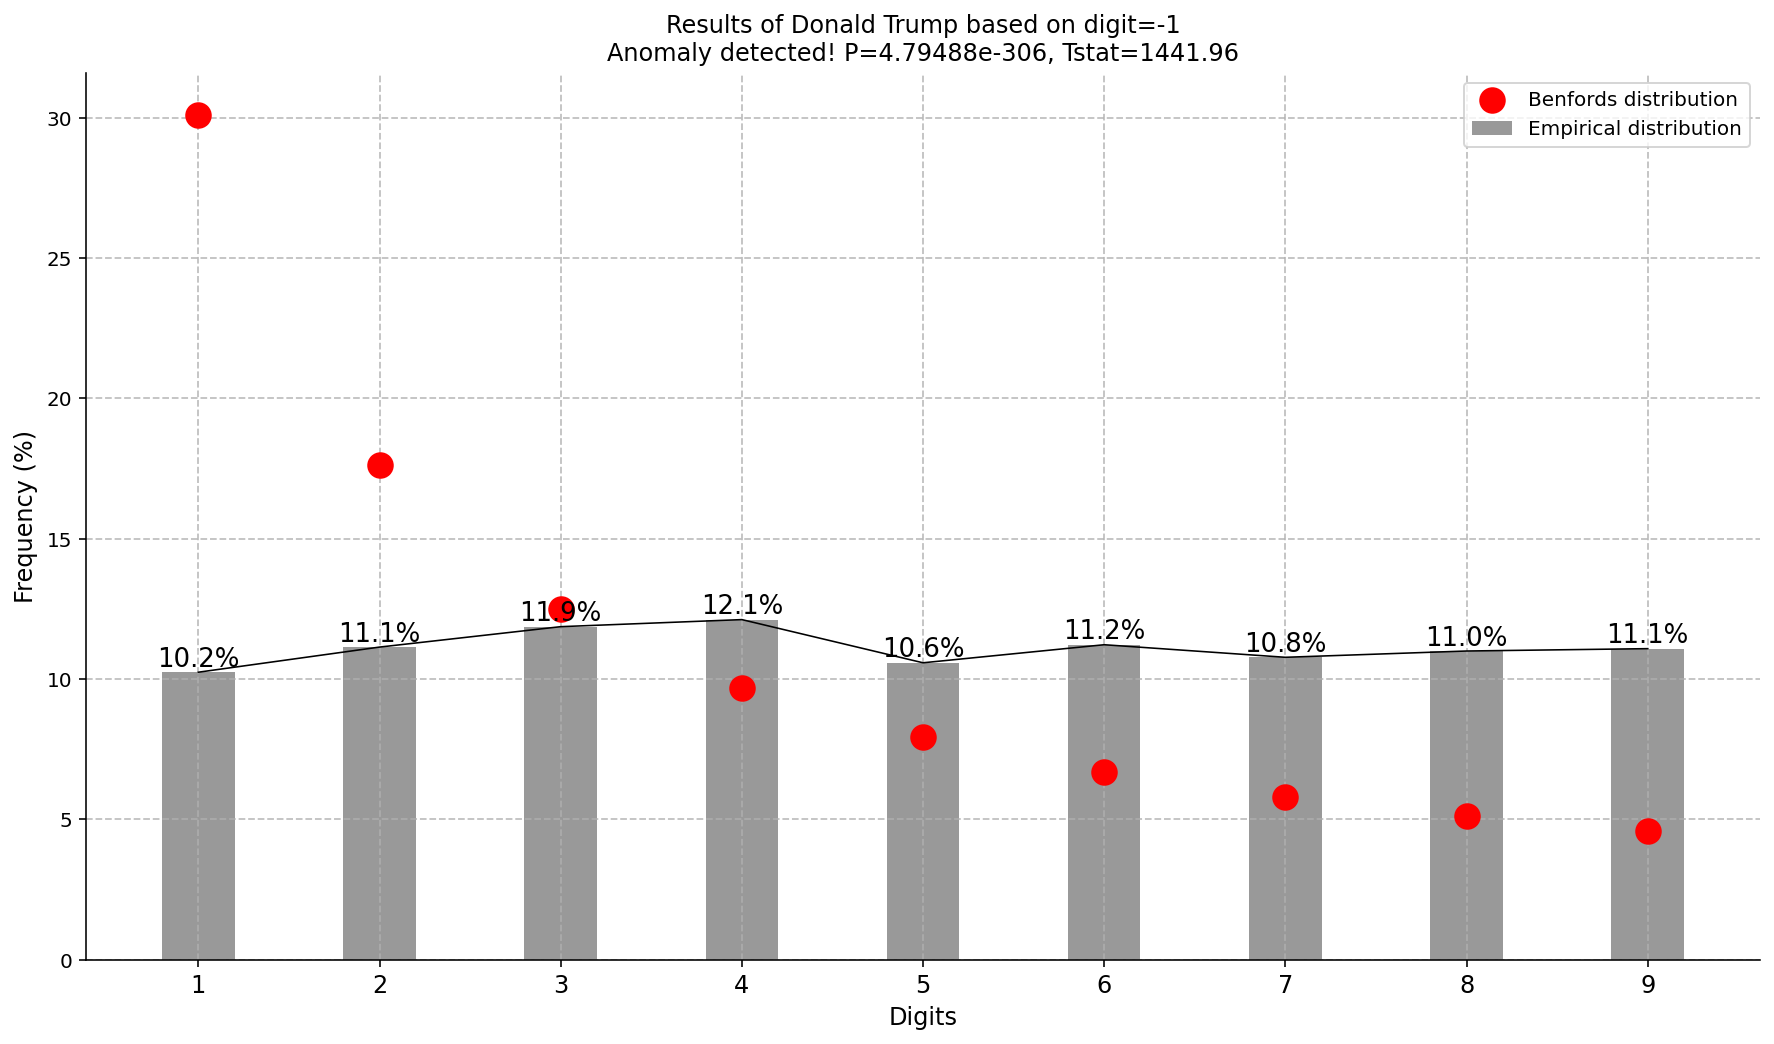
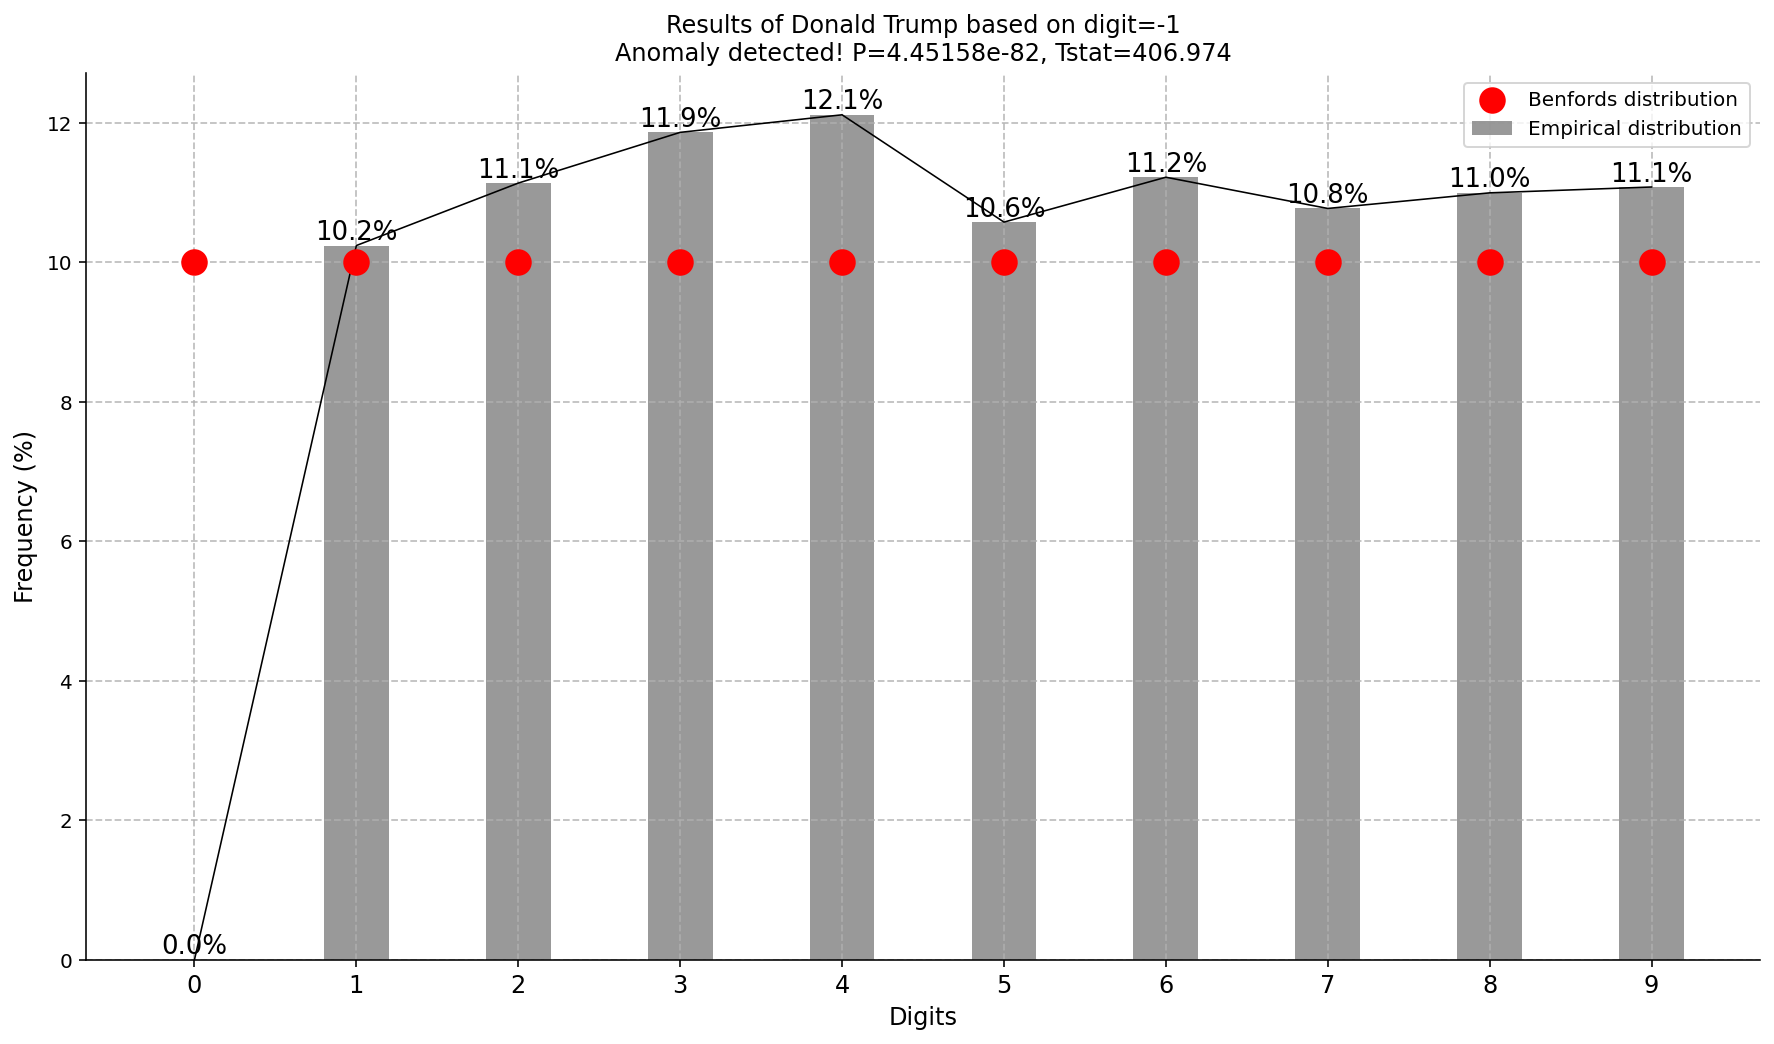
update figs

diff --git a/benfordslaw/examples.py b/benfordslaw/examples.py
@@ -5,7 +5,7 @@
 from benfordslaw import benfordslaw
 
 # Initialize
-pos=3
+pos=-2
 bl = benfordslaw(pos=pos)
 
 # Load elections example
